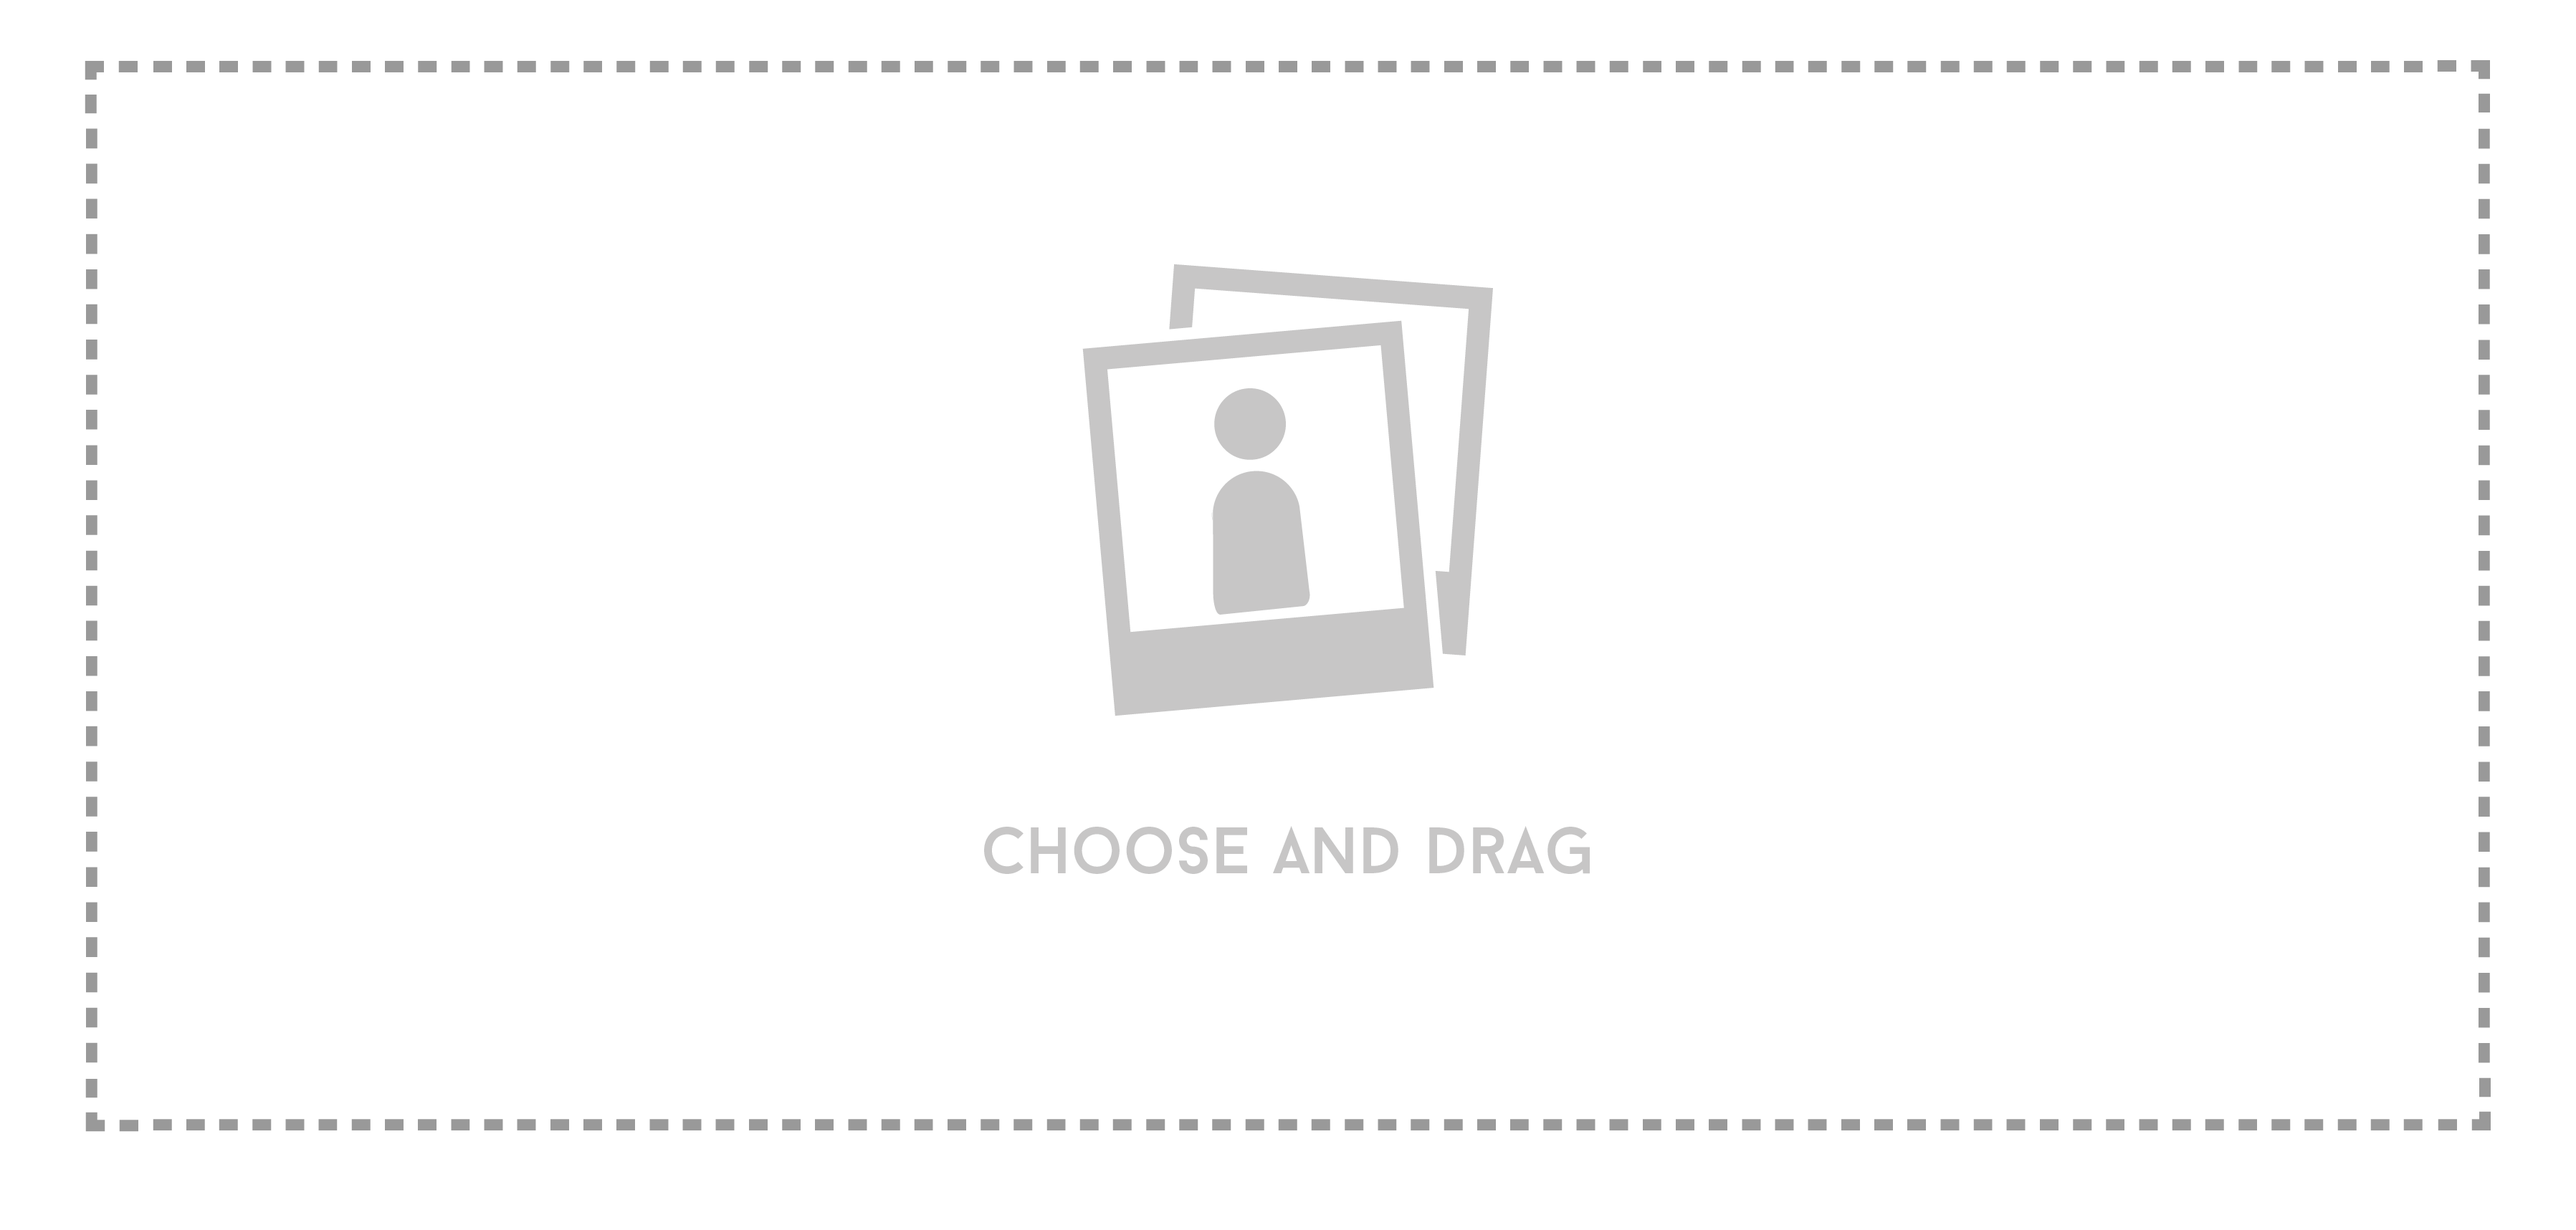
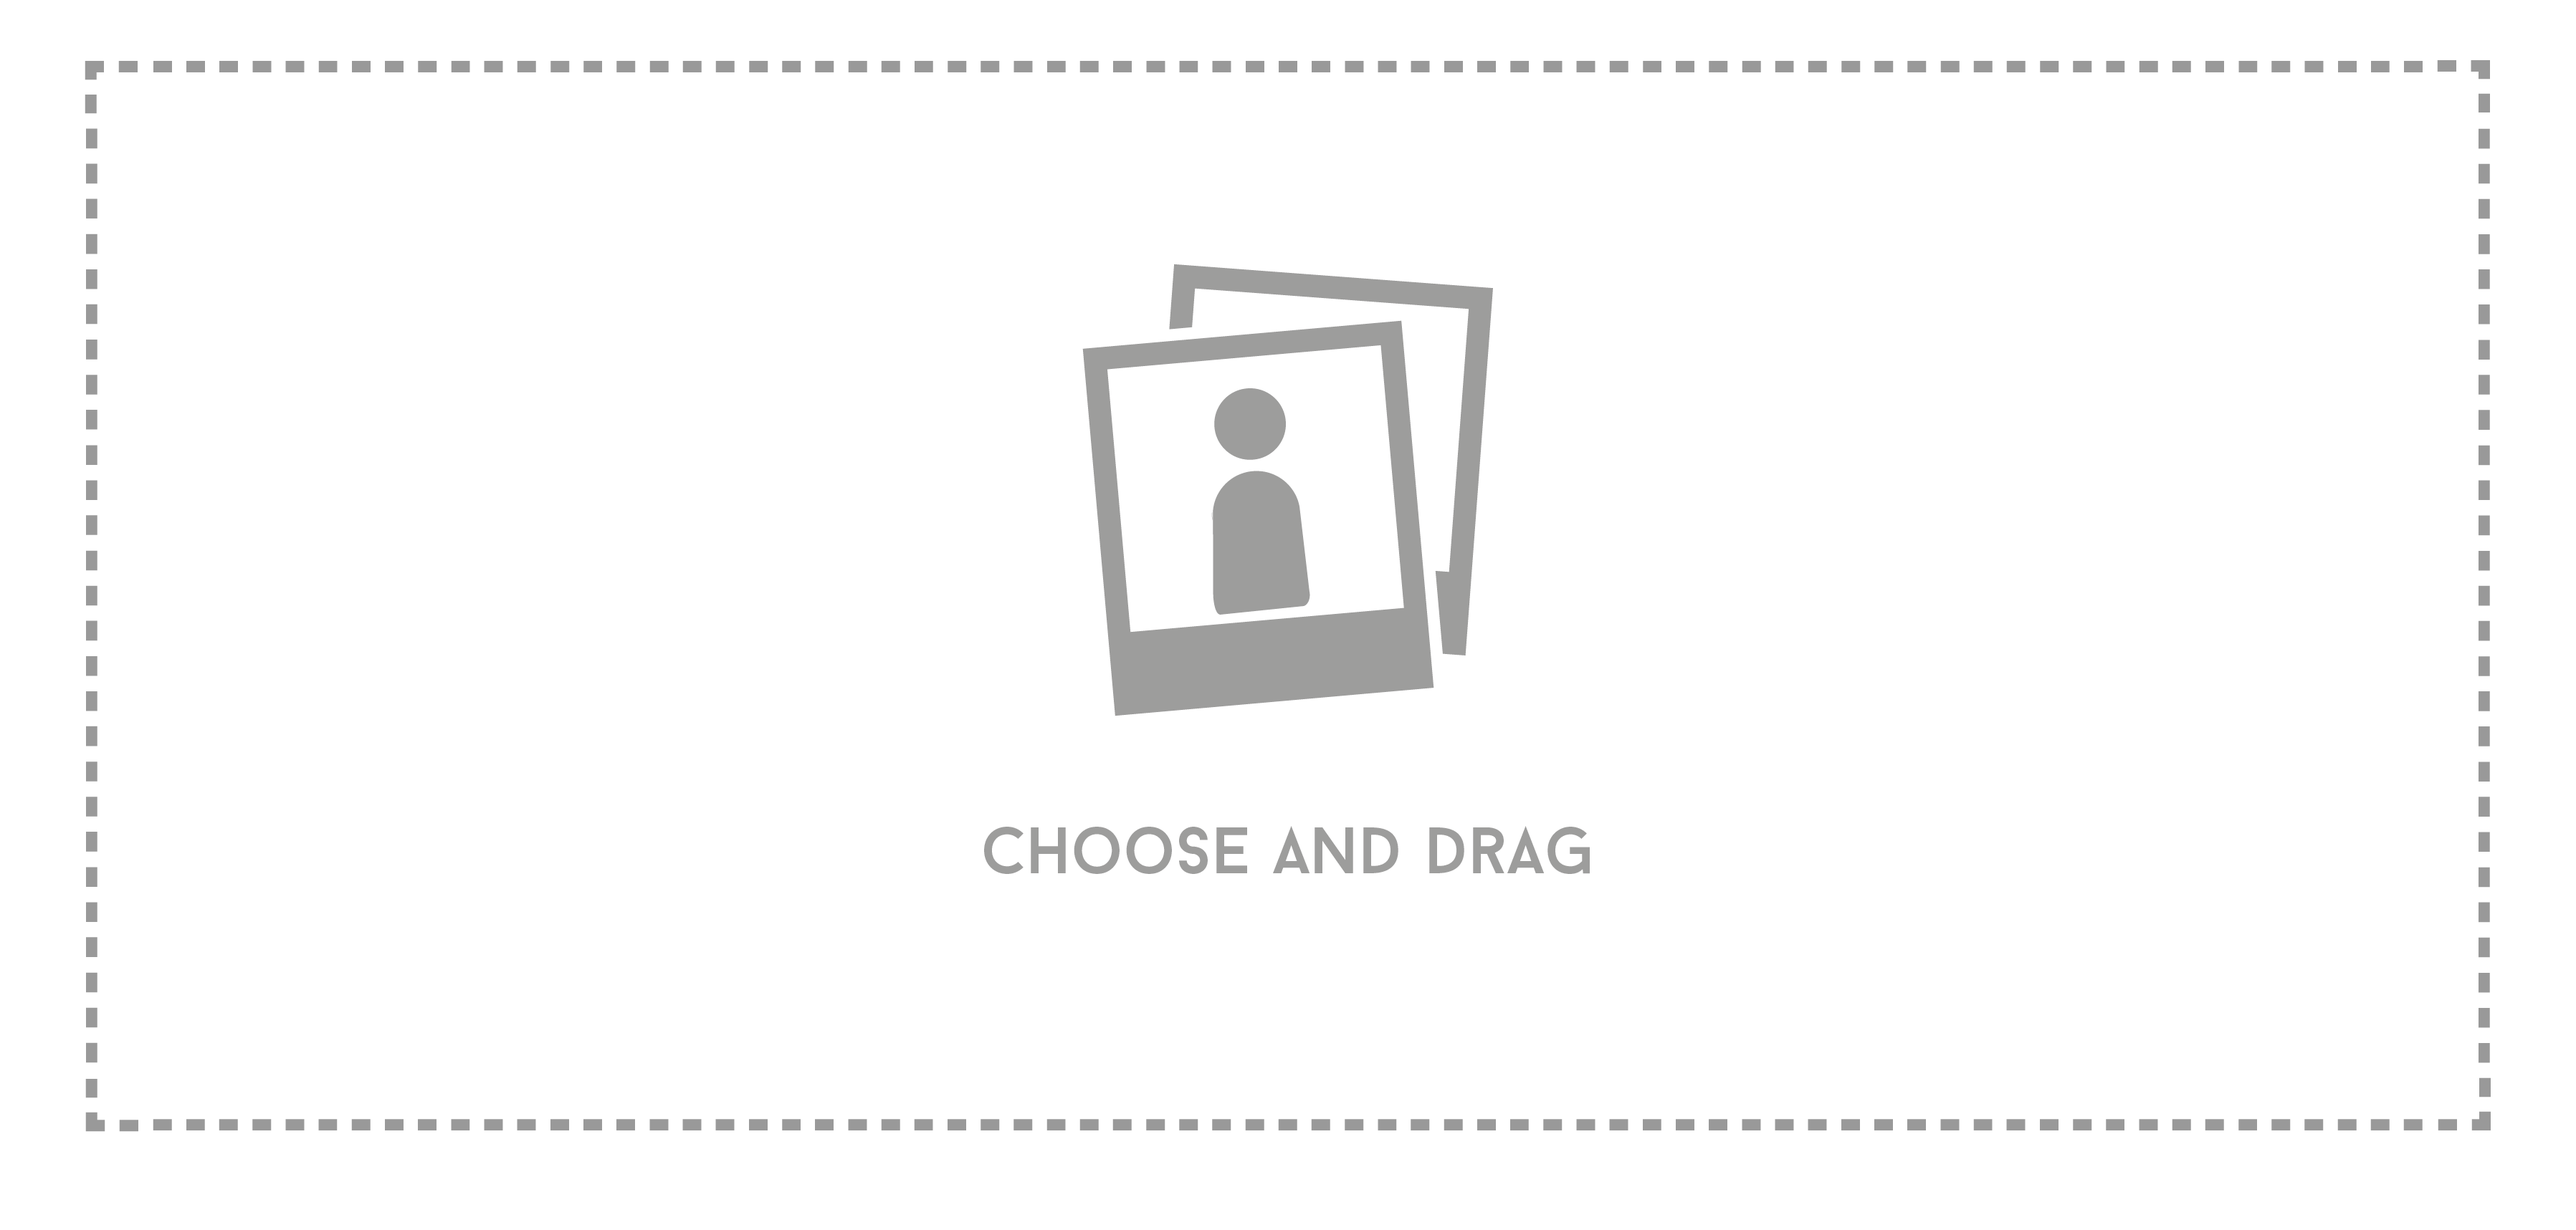
Improved responsivness

Changed region(s): [[0.4051, 0.2161, 0.5921, 0.5865], [0.374, 0.6482, 0.6233, 0.71]]

diff --git a/public/templates/style.html b/public/templates/style.html
@@ -13,8 +13,7 @@
            ngf-drag-over-class="'dragover'" ngf-multiple="true" ngf-allow-dir="true"
            accept="image/*,application/pdf"
            ngf-pattern="'image/*,application/pdf'">
-        <img ng-mouseenter="changeDropBackgroundEnter()" ng-mouseleave="changeDropBackgroundExit()"
-             ng-src="{{dropBackgroundImage}}">
+        <img src="../images/style/drop.png">
       </div>
       <div ngf-no-file-drop>File Drag/Drop is not supported for this browser</div>
     </div>
@@ -31,7 +30,7 @@
               CLOTHES: <span style="margin-left: 5%">$ {{totalClothes}}</span>
             </button>
             <div class="panel" ng-class="{show: showClothCard}">
-              <div class="col-xs-5 clothStyle" ng-repeat="cloth in clothesList"
+              <div class="col-xs-5 col-md-3 clothStyle" ng-repeat="cloth in clothesList"
                    ng-click="activeCloth(cloth.id)" ng-class="{selectedCloth: cloth.selected}">
                 <img class="img-responsive"
                      ng-src="{{cloth.src}}">
@@ -47,7 +46,7 @@
               STYLES: <span style="margin-left: 5%">$ {{totalStyles}}</span>
             </button>
             <div class="panel" ng-class="{show: showStyleCard}">
-              <div class="col-xs-5 clothStyle" ng-repeat="cloth in stylesList"
+              <div class="col-xs-5 col-md-3  clothStyle" ng-repeat="cloth in stylesList"
                    ng-click="activeStyle(cloth.id)" ng-class="{selectedCloth: cloth.selected}">
                 <img class="img-responsive"
                      ng-src="{{cloth.src}}">
@@ -62,7 +61,7 @@
               LOGOS: <span style="margin-left: 5%">$ {{totalLogos}}</span>
             </button>
             <div class="panel" ng-class="{show: showLogoCard}">
-              <div class="col-xs-5 clothStyle" ng-repeat="cloth in logosList"
+              <div class="col-xs-5 col-md-3  clothStyle" ng-repeat="cloth in logosList"
                    ng-click="activeLogo(cloth.id)" ng-class="{selectedCloth: cloth.selected}">
                 <img class="img-responsive"
                      ng-src="{{cloth.src}}">

diff --git a/public/javascript/controllers/styleController.js b/public/javascript/controllers/styleController.js
@@ -47,25 +47,18 @@ angular.module('ucode18')
         $scope.styleImageView = "../images/style/view/original.jpg";
         $scope.dropBackgroundImage = "../images/style/drop.png";
 
-        $scope.changeDropBackgroundEnter = function () {
-            $scope.dropBackgroundImage = "../images/style/drop_hover.png";
-        };
-        $scope.changeDropBackgroundExit = function () {
-            $scope.dropBackgroundImage = "../images/style/drop.png";
-        };
-
         $scope.showClothCard = false;
         $scope.showStyleCard = false;
         $scope.showLogoCard = false;
 
         $scope.clothesList = [
-            {id:0,src:"../images/style/clothes/camisetabase.jpg", price: 20.5, selected: false, model: "XX1"},
-            {id:1,src:"../images/style/clothes/camisetabasenegro.jpg", price: 1, selected: false, model: "XX3"}];
+            {id:0,src:"../images/style/clothes/camisetabase.jpg", price: 20, selected: false, model: "XX1"},
+            {id:1,src:"../images/style/clothes/camisetabasenegro.jpg", price: 25, selected: false, model: "XX3"}];
         $scope.stylesList = [
-            {id:0,src:"../images/style/clothes/camisetalrayas.jpg", price: 1, selected: false, model: "XX4"}];
+            {id:0,src:"../images/style/clothes/camisetalrayas.jpg", price: 5, selected: false, model: "XX4"}];
         $scope.logosList = [
-            {id:0,src:"../images/style/clothes/camisetalogogrande.jpg", price: 5, selected: false, model: "XX4"},
-            {id:1,src:"../images/style/clothes/camisetalogopequeno.jpg", price: 1, selected: false, model: "XX5"}];
+            {id:0,src:"../images/style/clothes/camisetalogogrande.jpg", price: 10, selected: false, model: "XX4"},
+            {id:1,src:"../images/style/clothes/camisetalogopequeno.jpg", price: 5, selected: false, model: "XX5"}];
         $scope.totalClothes = 0;
         $scope.totalStyles = 0;
         $scope.totalLogos = 0;

diff --git a/public/css/style/styleStyle.css b/public/css/style/styleStyle.css
@@ -117,8 +117,9 @@
   display:block;
   width: 100%;
   height: auto;
-  max-height: 100%;
+  max-height: calc(100vh - 120px);
   margin: auto;
+  cursor: pointer;
 }
 
 .hiddenOptions {
